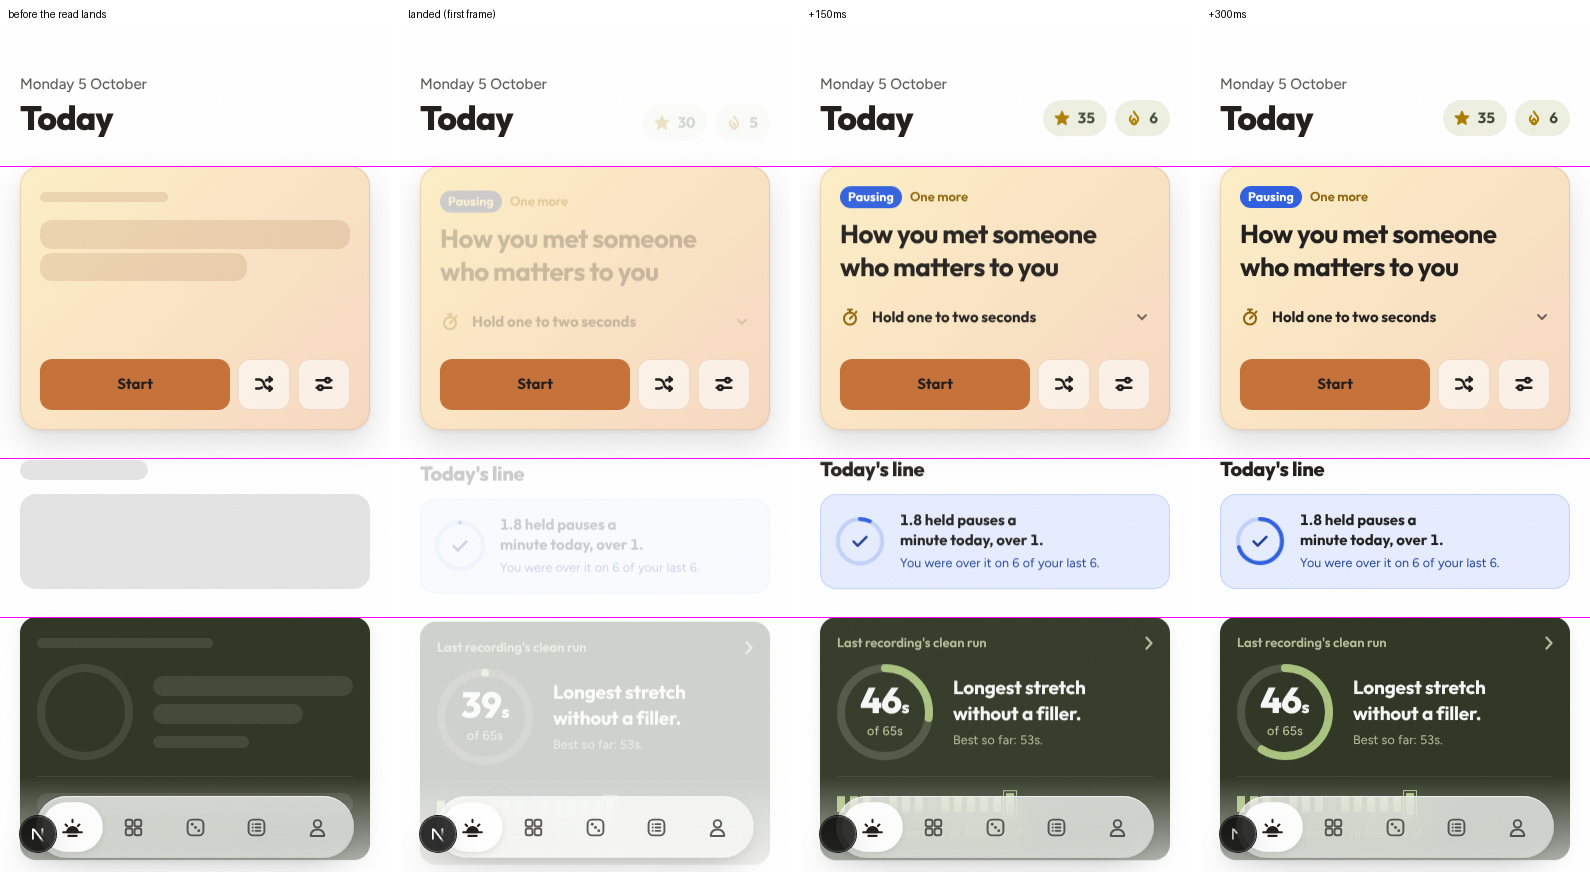
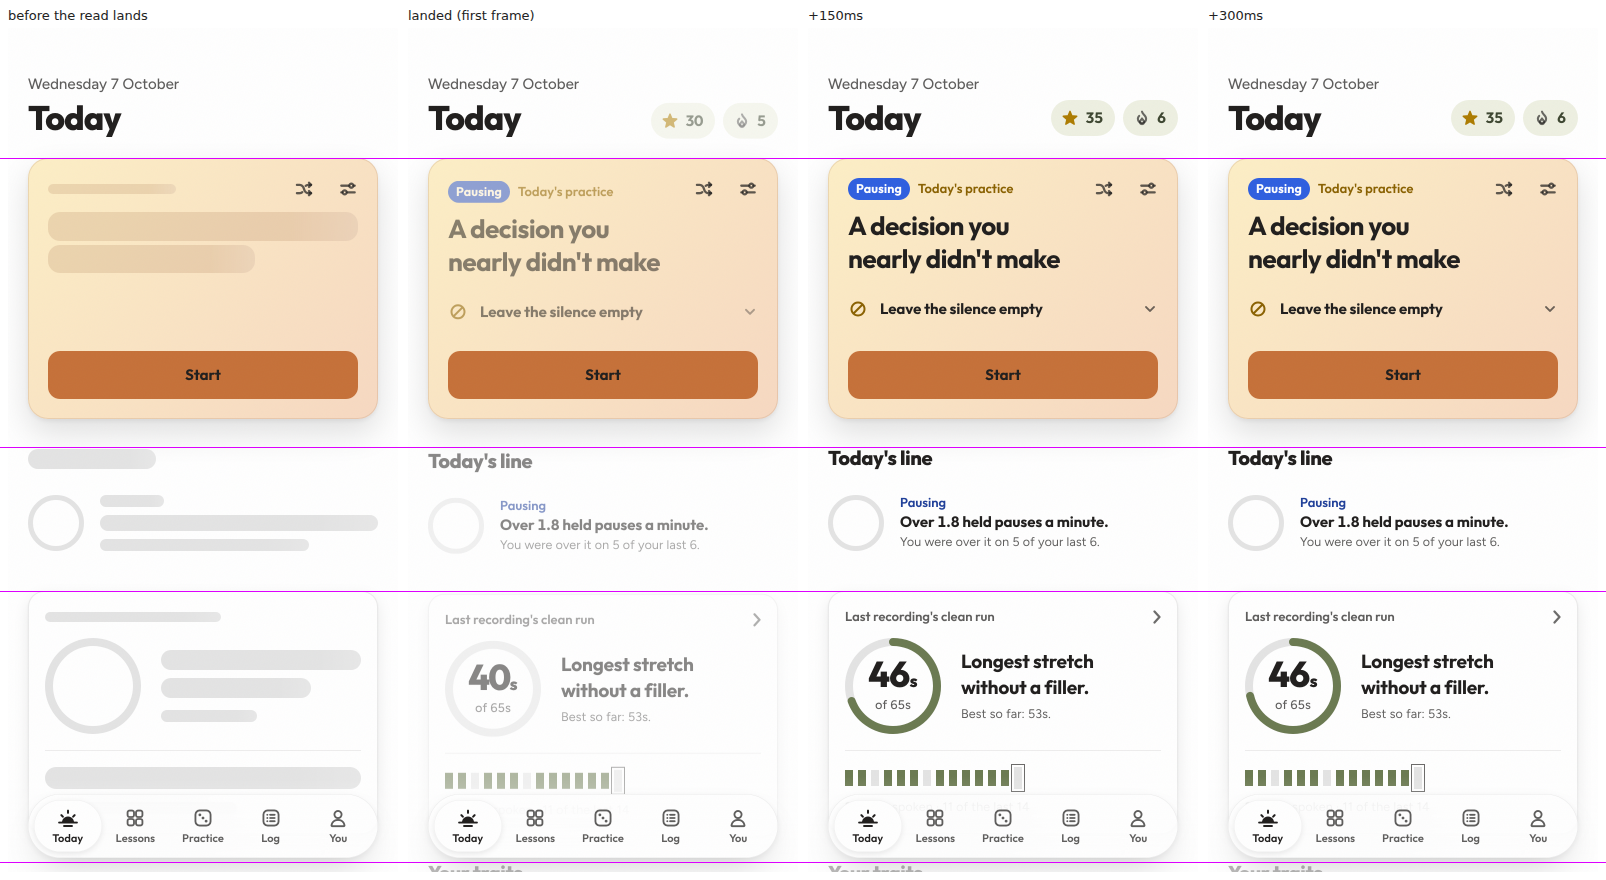
R4: the date over a large title takes the column's full width
ScreenHeader's eyebrow stands over the title row instead of inside it,
so at 320px Today's date no longer wraps beside the earned chips; at
390 every edge is where it was. The loading strip for Today is
re-shot on round 2's materials.

Claude-Session: https://claude.ai/code/session_01KQpi1wPL2sdqgKKvt94vrP

diff --git a/components/ui/ScreenHeader.tsx b/components/ui/ScreenHeader.tsx
@@ -153,13 +153,15 @@ export function ScreenHeader({
             : barTrailing}
         </div>
       </div>
+      {/* Over the title row, not in it: the line takes the column's full
+          width, so at 320px a date never wraps beside Today's chips. */}
+      {dated ? (
+        <div className="large-title-eyebrow">{date ?? "\u00a0"}</div>
+      ) : (
+        eyebrow && <div className="large-title-eyebrow">{eyebrow}</div>
+      )}
       <div className="large-title-row">
         <div className="min-w-0">
-          {dated ? (
-            <div className="large-title-eyebrow">{date ?? "\u00a0"}</div>
-          ) : (
-            eyebrow && <div className="large-title-eyebrow">{eyebrow}</div>
-          )}
           <h1 ref={heading} className="large-title">
             {title}
           </h1>
